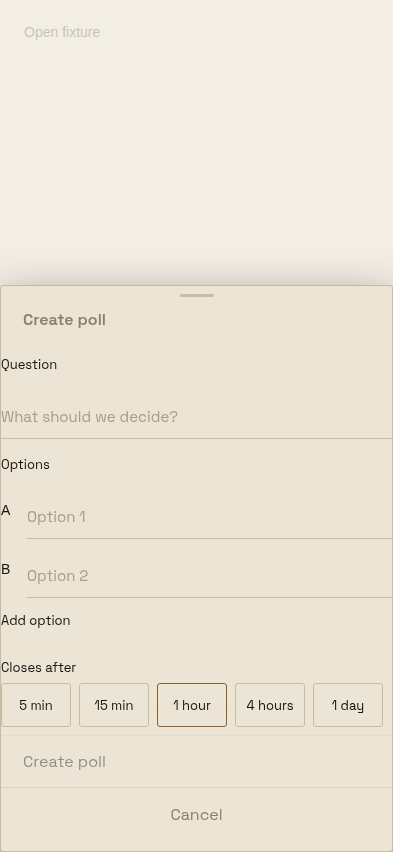
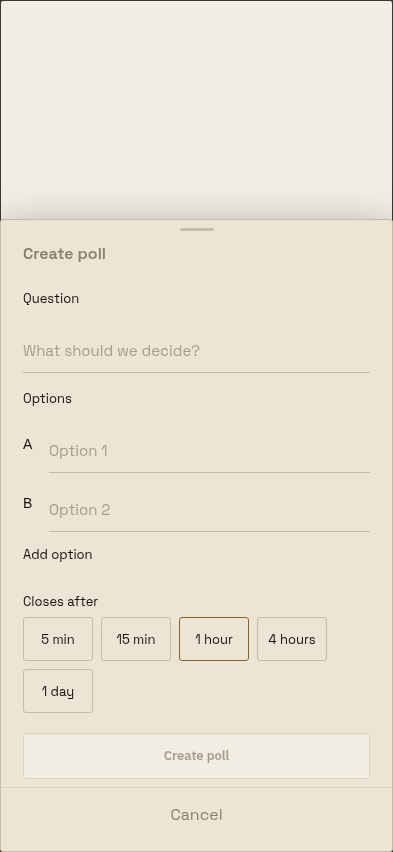
Align poll sheet content and primary action

diff --git a/apps/mobile/sources/components/buzz/CreatePollSheet.tsx b/apps/mobile/sources/components/buzz/CreatePollSheet.tsx
@@ -2,7 +2,8 @@ import React, { useEffect, useState } from 'react';
 import { Pressable, ScrollView, Text, View } from 'react-native';
 import { StyleSheet } from 'react-native-unistyles';
 import { HullDialogInput } from './HullDialog';
-import { HullActionSheetCancel, HullActionSheetModal, HullActionSheetRow } from './HullActionSheet';
+import { HULL_SHEET_INSET, HullActionSheetCancel, HullActionSheetModal } from './HullActionSheet';
+import { MonoButton } from './MonoHull';
 
 const CLOSING_TIMES = [
   { label: '5 min', seconds: 300 },
@@ -54,21 +55,25 @@ export function CreatePollSheet({
       testID="create-poll-sheet"
       footer={
         <View>
-          <HullActionSheetRow
-            disabled={busy || !ready}
-            label="Create poll"
-            onPress={() =>
-              onCreate({
-                prompt: prompt.trim(),
-                options: options.map((option) => ({
-                  label: option.trim(),
-                  consequence: option.trim(),
-                })),
-                ttlSeconds,
-              })
-            }
-            testID="create-poll-submit"
-          />
+          <View style={styles.submitInset}>
+            <MonoButton
+              disabled={busy || !ready}
+              label="Create poll"
+              loading={busy}
+              onPress={() =>
+                onCreate({
+                  prompt: prompt.trim(),
+                  options: options.map((option) => ({
+                    label: option.trim(),
+                    consequence: option.trim(),
+                  })),
+                  ttlSeconds,
+                })
+              }
+              testID="create-poll-submit"
+              variant="primary"
+            />
+          </View>
           <HullActionSheetCancel disabled={busy} onPress={onClose} />
         </View>
       }
@@ -139,7 +144,8 @@ export function CreatePollSheet({
 }
 
 const styles = StyleSheet.create((theme) => ({
-  content: { maxHeight: 430 },
+  content: { maxHeight: 470, paddingHorizontal: HULL_SHEET_INSET },
+  submitInset: { paddingHorizontal: HULL_SHEET_INSET, paddingTop: 12, paddingBottom: 8 },
   label: {
     ...theme.buzz.type.meta,
     color: theme.buzz.textPrimary,

diff --git a/apps/mobile/sources/components/buzz/CreatePollSheet.test.tsx b/apps/mobile/sources/components/buzz/CreatePollSheet.test.tsx
@@ -36,12 +36,16 @@ vi.mock('./HullDialog', async () => {
 vi.mock('./HullActionSheet', async () => {
   const ReactModule = await import('react');
   return {
+    HULL_SHEET_INSET: 22,
     HullActionSheetModal: (props: any) =>
       ReactModule.createElement('HullActionSheetModal', props, props.children, props.footer),
-    HullActionSheetRow: (props: any) => ReactModule.createElement('HullActionSheetRow', props),
     HullActionSheetCancel: (props: any) =>
       ReactModule.createElement('HullActionSheetCancel', props),
   };
+});
+vi.mock('./MonoHull', async () => {
+  const ReactModule = await import('react');
+  return { MonoButton: (props: any) => ReactModule.createElement('MonoButton', props) };
 });
 
 import { CreatePollSheet } from './CreatePollSheet';
@@ -59,6 +63,7 @@ describe('CreatePollSheet', () => {
     });
     const find = (testID: string) => renderer.root.findByProps({ testID });
     expect(renderer.root.findByType('HullActionSheetModal').props.title).toBe('Create poll');
+    expect(find('create-poll-submit').props.variant).toBe('primary');
     expect(find('create-poll-submit').props.disabled).toBe(true);
     act(() => find('create-poll-question').props.onChangeText(' Ship? '));
     act(() => find('create-poll-option-0').props.onChangeText(' Yes '));

diff --git a/docs/dialog-sheet-alignment/README.md b/docs/dialog-sheet-alignment/README.md
@@ -4,6 +4,8 @@ All frames use Beeline's Bone (light) appearance. `before/` comes from the catal
 
 Fixture data is synthetic where a live Workspace or Room would normally supply it: Workspace name `Hull`, roster members Ana and Ox, and member-picker candidates Ana and Ox. The text-selection image uses the real route's missing-text branch. The old Workspace-delete catalog frame shows only its shared sheet shell, without the typed-name input, so its before/after comparison is limited. The after frame mounts the actual `WorkspaceDeleteConfirmDialog` used by Workspace settings.
 
+The updated Create poll after frame shows the empty form with its disabled primary button. `after/create-poll-enabled.png` shows the same mounted component with sample question `Ship?` and options `Yes` and `No`, confirming the ink primary state after valid input.
+
 `after/android-delete.png`, `android-delete-keyboard-disabled.png`, and `android-delete-keyboard-enabled.png` are native Android development-build captures of that same component. With the keyboard open, the dialog and both actions remain above it; Delete stays disabled for a wrong or empty name and enables for exact `Hull`. One Cancel appears. No deletion was sent by the fixture.
 
 Mobile `npm run typecheck` was also run on an archive of exact starting `origin/main` (`43ab1f02af26cad7afdddc03f5b274254d990eeb`) with the same installed dependencies. Both baseline and this branch report the same six diagnostics: `RoomMessageVariants.test.tsx:2707,2711` (TS2353), `RoomMessageVariants.tsx:473` (TS2339), and `push/notification-action-runtime.ts:109,111,131` (TS2307, TS2307, TS7031). No diagnostic points to the changed surfaces.
